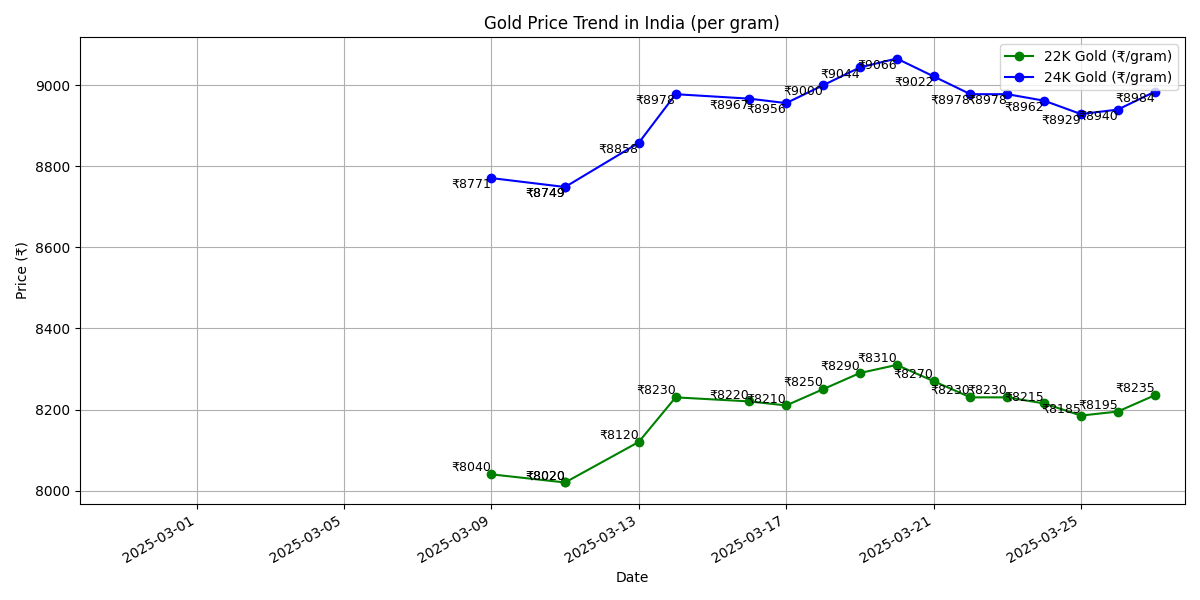
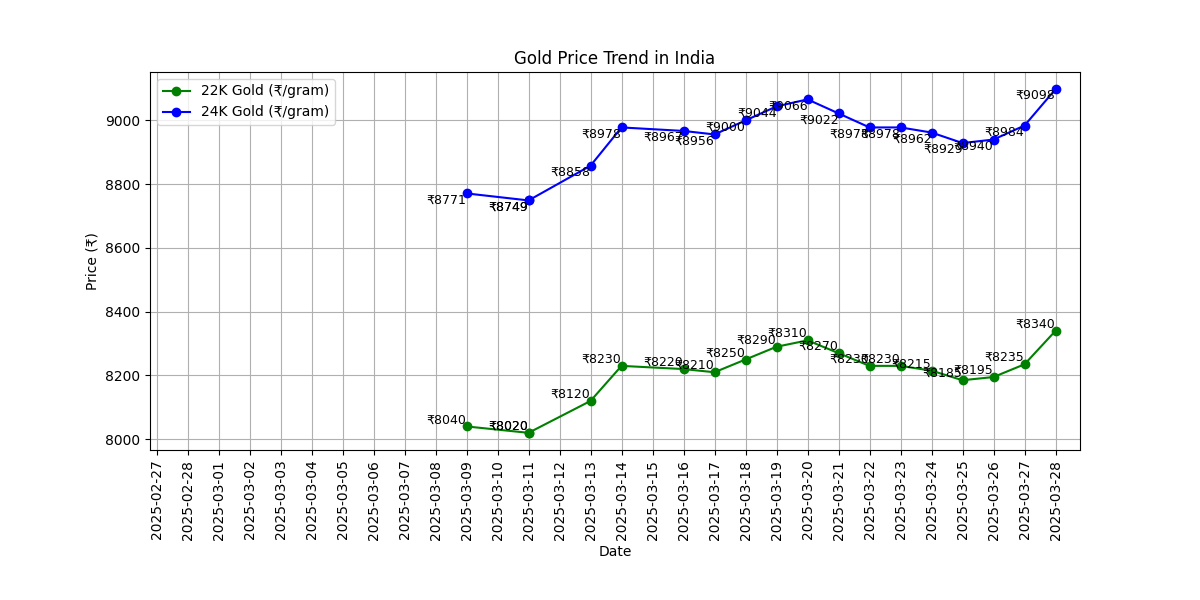
Update gold price data with new entry for March 28, 2025, and enhance gold price trend visualization by improving date formatting and layout adjustments. Restore full Nifty 50 symbols list in the get_nifty50_symbols function.

diff --git a/src/nifty50.py b/src/nifty50.py
@@ -7,69 +7,69 @@ from custom_dirs import DataDirectory
 
 def get_nifty50_symbols():
     # Nifty 50 symbols
-    # nifty50_symbols = [
-    #     'RELIANCE.NS',
-    #     'TCS.NS',
-    #     'HDFCBANK.NS',
-    #     'INFY.NS',
-    #     'ICICIBANK.NS',
-    #     'HINDUNILVR.NS',
-    #     'SBIN.NS',
-    #     'BHARTIARTL.NS',
-    #     'ITC.NS',
-    #     'KOTAKBANK.NS',
-    #     'HCLTECH.NS',
-    #     'WIPRO.NS',
-    #     'AXISBANK.NS',
-    #     'ASIANPAINT.NS',
-    #     'ULTRACEMCO.NS',
-    #     'TITAN.NS',
-    #     'BAJFINANCE.NS',
-    #     'MARUTI.NS',
-    #     'NESTLEIND.NS',
-    #     'BAJAJFINSV.NS',
-    #     'HDFC.NS',
-    #     'BAJAJ-AUTO.NS',
-    #     'HINDALCO.NS',
-    #     'JSWSTEEL.NS',
-    #     'POWERGRID.NS',
-    #     'ADANIENT.NS',
-    #     'ADANIPORTS.NS',
-    #     'ADANIPOWER.NS',
-    #     'BPCL.NS',
-    #     'BRITANNIA.NS',
-    #     'CIPLA.NS',
-    #     'COALINDIA.NS',
-    #     'DLF.NS',
-    #     'DIVISLAB.NS',
-    #     'DRREDDY.NS',
-    #     'EICHERMOT.NS',
-    #     'GAIL.NS',
-    #     'GODREJCP.NS',
-    #     'GRASIM.NS',
-    #     'HDFCLIFE.NS',
-    #     'HEROMOTOCO.NS',
-    #     'HINDUNILVR.NS',
-    #     'ICICIGI.NS',
-    #     'ICICIPRULI.NS',
-    #     'IOC.NS',
-    #     'INDUSINDBK.NS',
-    #     'M&M.NS',
-    #     'MARICO.NS',
-    #     'NTPC.NS',
-    #     'ONGC.NS',
-    #     'PIDILITIND.NS',
-    #     'SBILIFE.NS',
-    #     'SHREECEM.NS',
-    #     'SUNPHARMA.NS',
-    #     'TATASTEEL.NS',
-    #     'TECHM.NS',
-    #     'UPL.NS'
-    # ]
     nifty50_symbols = [
-        'RELIANCE.NS'
-        
+        'RELIANCE.NS',
+        'TCS.NS',
+        'HDFCBANK.NS',
+        'INFY.NS',
+        'ICICIBANK.NS',
+        'HINDUNILVR.NS',
+        'SBIN.NS',
+        'BHARTIARTL.NS',
+        'ITC.NS',
+        'KOTAKBANK.NS',
+        'HCLTECH.NS',
+        'WIPRO.NS',
+        'AXISBANK.NS',
+        'ASIANPAINT.NS',
+        'ULTRACEMCO.NS',
+        'TITAN.NS',
+        'BAJFINANCE.NS',
+        'MARUTI.NS',
+        'NESTLEIND.NS',
+        'BAJAJFINSV.NS',
+        'HDFC.NS',
+        'BAJAJ-AUTO.NS',
+        'HINDALCO.NS',
+        'JSWSTEEL.NS',
+        'POWERGRID.NS',
+        'ADANIENT.NS',
+        'ADANIPORTS.NS',
+        'ADANIPOWER.NS',
+        'BPCL.NS',
+        'BRITANNIA.NS',
+        'CIPLA.NS',
+        'COALINDIA.NS',
+        'DLF.NS',
+        'DIVISLAB.NS',
+        'DRREDDY.NS',
+        'EICHERMOT.NS',
+        'GAIL.NS',
+        'GODREJCP.NS',
+        'GRASIM.NS',
+        'HDFCLIFE.NS',
+        'HEROMOTOCO.NS',
+        'HINDUNILVR.NS',
+        'ICICIGI.NS',
+        'ICICIPRULI.NS',
+        'IOC.NS',
+        'INDUSINDBK.NS',
+        'M&M.NS',
+        'MARICO.NS',
+        'NTPC.NS',
+        'ONGC.NS',
+        'PIDILITIND.NS',
+        'SBILIFE.NS',
+        'SHREECEM.NS',
+        'SUNPHARMA.NS',
+        'TATASTEEL.NS',
+        'TECHM.NS',
+        'UPL.NS'
     ]
+    # nifty50_symbols = [
+    #     'RELIANCE.NS'
+        
+    # ]
     return nifty50_symbols
 
 def fetch_stock_data():

diff --git a/src/gold_price_india.py b/src/gold_price_india.py
@@ -8,6 +8,7 @@ import json
 from dotenv import load_dotenv
 from openai import AzureOpenAI
 from serpapi import GoogleSearch
+from matplotlib.dates import DayLocator, DateFormatter
 
 from custom_dirs import DataDirectory, ReportDirectory, RootDirectory
 
@@ -193,7 +194,6 @@ def plot_gold_price_trend(filename=os.path.join(DataDirectory.path,"gold_price_d
         # Create plot
         fig, ax = plt.subplots(figsize=(12, 6))
         
-        
         # Plot using the categorical x positions
         ax.plot(df['date'], df['gold_22k_price'], marker='o', label='22K Gold (₹/gram)', color='green' )
         ax.plot(df['date'], df['gold_24k_price'], marker='o', label='24K Gold (₹/gram)', color='blue')
@@ -207,20 +207,22 @@ def plot_gold_price_trend(filename=os.path.join(DataDirectory.path,"gold_price_d
                     fontsize=9, ha='right', va='top')
         
         # Customize plot
-        ax.set_title('Gold Price Trend in India (per gram)')
+        ax.set_title('Gold Price Trend in India')
         ax.set_xlabel('Date')
         ax.set_ylabel('Price (₹)')
         ax.grid(True)
         ax.legend()
         
-       # Improve date label readability
-        plt.xticks(rotation=45, ha='right')  # Rotate and align labels to the right
-        plt.gcf().autofmt_xdate()
-        plt.tight_layout()
+        # Format x-axis dates
+        ax.xaxis.set_major_locator(DayLocator())  # Show every day
+        ax.xaxis.set_major_formatter(DateFormatter('%Y-%m-%d'))  # Format as YYYY-MM-DD
+        plt.xticks(rotation=90, ha='center')  # Rotate labels vertically
+        
+        # Adjust layout to prevent label cutoff - increased bottom margin for vertical labels
+        plt.subplots_adjust(bottom=0.25)  # Add more space at the bottom
+        
         # Adjust x-axis limits
         ax.set_xlim(start_date, datetime.today())
-        
-        plt.tight_layout()
         
         # Save plot
         plt.savefig(output_file)
